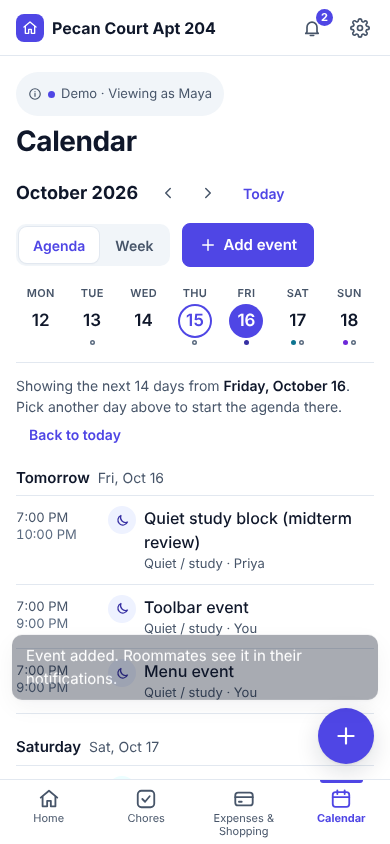
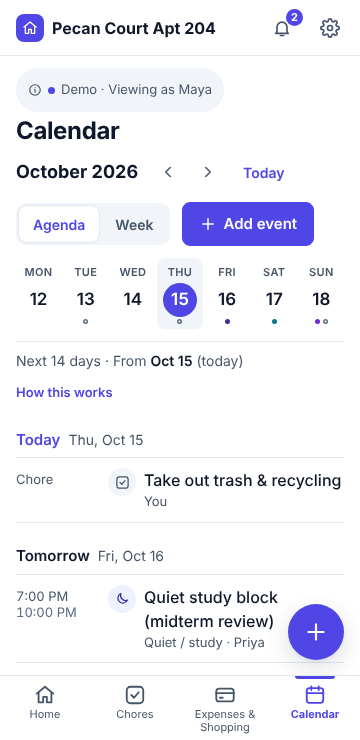
Final polish: tighter mobile Home, single Today heading, compact agenda note, one link per preview, simpler expense rows
Claude-Session: https://claude.ai/code/session_01D1j1XZUmCQM9XSxDUNXFjc

diff --git a/js/app.js b/js/app.js
@@ -115,7 +115,8 @@ function shopRowCompact(i) {
 
 // ---------- Home ----------
 const PREVIEW = 3; // practical preview length for the available layout (not a research-derived number)
-const moreLink = (n, shown, href, label) => (n > shown ? `<a class="more-link" href="${href}">${label} (${n})</a>` : '');
+const moreLink = (n, shown, href, label) => (n > shown ? `<a class="more-link" href="${href}">${label}</a>` : '');
+const moreText = (n, shown, what) => (n > shown ? `<p class="small muted" style="padding-top:8px">+ ${n - shown} more ${what}</p>` : '');
 function viewHome() {
   const s = store.state, t = today(), me = store.me();
   const hr = new Date().getHours();
@@ -131,13 +132,13 @@ function viewHome() {
   const todayBody = dueToday.length ? list(dueToday)
     : `<div class="empty"><strong>${ic('check', 16)} You’re all caught up today</strong>${upcomingAll.length ? `Next up: ${esc(upcomingAll[0].title)}, ${L.fmtDay(upcomingAll[0].due)}.` : 'Nothing is assigned to you right now.'}</div>`;
   const mainCol = `<div data-o="1">${overdueMine.length ? sec('over', 'Overdue', list(overdueMine), { count: overdueMine.length, danger: true, icon: 'alert' }) : ''}
-      ${sec('today', 'Today', todayBody + addRow('add-chore', 'Add chore'), { count: dueToday.length || null })}
+      ${sec('today', 'Your chores', todayBody + addRow('add-chore', 'Add chore'), { count: dueToday.length || null })}
       ${upcomingAll.length ? sec('up', 'Your upcoming chores', list(upcoming) + moreLink(upcomingAll.length, upcoming.length, '#/chores/mine', 'See all your chores'), { count: upcomingAll.length }) : ''}</div>
     ${others.length ? `<div data-o="2">${sec('others', 'Past due in the household', `<ul class="list">${others.slice(0, PREVIEW).map((o) => choreRow(o, { ctx: 'o', owner: true })).join('')}</ul>${moreLink(others.length, PREVIEW, '#/chores/all', 'See all chores')}`, { count: others.length })}</div>` : ''}
     <div data-o="6">${disclosure('activity', 'Recent activity', feed.length ? `<ul class="feed">${feed.map((a) => `<li><a href="${esc(a.link)}"><strong>${esc(who(a.actorId))}</strong> ${esc(L.displayCopy(a.verb))} ${esc(L.displayCopy(a.subject))}</a><time datetime="${a.ts}">${ago(a.ts)}</time></li>`).join('')}</ul>` : empty('No activity yet', 'Completed chores, purchases and changes show up here.'))}</div>`;
   const sideCol = `<div data-o="3" class="sec"><div class="panel-soft"><div class="sec-head" style="border:0;padding:0 0 8px"><h2>Your balance</h2><a href="#/money/expenses">Expenses</a></div>${balanceBlock()}</div></div>
-    <div data-o="4">${sec('ev', 'Household plans', events.length ? `<ul class="list">${events.slice(0, PREVIEW).map(eventRow).join('')}</ul>${moreLink(events.length, PREVIEW, '#/calendar', 'See calendar')}` : empty('Nothing planned', 'Add quiet time, guests or plans so everyone knows.', '<br><button type="button" class="btn sm" data-action="add-event">Add event</button>'), { count: events.length || null, right: '<a href="#/calendar">Calendar</a>' })}</div>
-    <div data-o="5">${sec('shop', 'Shopping list', needed.length ? `<ul class="list">${needed.slice(0, PREVIEW).map(shopRowCompact).join('')}</ul>${moreLink(needed.length, PREVIEW, '#/money/shopping', 'See the full list')}` : empty('Nothing needed', 'Add something when the apartment runs low.', '<br><button type="button" class="btn sm" data-action="add-item">Add item</button>'), { count: needed.length || null, right: '<a href="#/money/shopping">Open list</a>' })}</div>`;
+    <div data-o="4">${sec('ev', 'Household plans', events.length ? `<ul class="list">${events.slice(0, PREVIEW).map(eventRow).join('')}</ul>${moreText(events.length, PREVIEW, 'in the next 14 days')}` : empty('Nothing planned', 'Add quiet time, guests or plans so everyone knows.', '<br><button type="button" class="btn sm" data-action="add-event">Add event</button>'), { count: events.length || null, right: '<a href="#/calendar">Calendar</a>' })}</div>
+    <div data-o="5">${sec('shop', 'Shopping list', needed.length ? `<ul class="list">${needed.slice(0, PREVIEW).map(shopRowCompact).join('')}</ul>${moreText(needed.length, PREVIEW, 'needed')}` : empty('Nothing needed', 'Add something when the apartment runs low.', '<br><button type="button" class="btn sm" data-action="add-item">Add item</button>'), { count: needed.length || null, right: '<a href="#/money/shopping">Open list</a>' })}</div>`;
   return `<div class="page-head"><div><h1>Today</h1><p class="sub">${greet}, ${esc(name(me))} · ${L.fmtDay(t)}</p></div></div><div class="dash"><div class="dash-col">${mainCol}</div><div class="dash-col">${sideCol}</div></div>`;
 }
 
@@ -191,9 +192,10 @@ function viewMoney(tab) {
   const expRow = (e) => {
     const share = e.splits[me];
     const lines = e.participantIds.map((id) => `<li>${esc(name(id))}: ${money(e.splits[id])}${id === e.payerId ? ' (paid)' : ''}</li>`).join('');
+    const extra = `<li>Split ${e.participantIds.length} ${e.participantIds.length === 1 ? 'way' : 'ways'} equally</li>${e.shoppingItemId ? '<li>Recorded from a shopping list purchase</li>' : ''}`;
     return `<li class="row" id="exp-${e.id}"><div class="row-lead">${avatar(e.payerId)}</div><div class="row-main"><div class="row-title">${esc(e.description)}</div>
-      <div class="row-meta"><span>${esc(who(e.payerId))} paid</span><span>${L.fmtDay(e.date)}</span><span>Split ${e.participantIds.length} ${e.participantIds.length === 1 ? 'way' : 'ways'}</span>${e.shoppingItemId ? `<span>${ic('cart', 13)}From shopping list</span>` : ''}</div>
-      <details class="inline"><summary>Split details</summary><ul>${lines}</ul></details></div>
+      <div class="row-meta"><span>${esc(who(e.payerId))} paid · ${L.fmtDay(e.date)}</span></div>
+      <details class="inline" data-key="exp-${e.id}"${ui.open[`exp-${e.id}`] ? ' open' : ''}><summary>Details</summary><ul>${extra}${lines}</ul></details></div>
       <div class="row-side"><div class="amount">${money(e.amountCents)}<small>${share !== undefined ? `Your share ${money(share)}` : 'Not in split'}</small></div>${menu({ id: `e-${e.id}`, label: `More actions for ${e.description}`, items: [{ label: 'Edit expense', icon: 'edit', action: 'edit-expense', data: { id: e.id } }, '-', { label: 'Delete expense', icon: 'trash', action: 'delete-expense', data: { id: e.id }, danger: true }] })}</div></li>`;
   };
   const reRow = (r) => `<li class="row"><div class="row-lead">${ic('repeatSm', 18)}</div><div class="row-main"><div class="row-title">${esc(who(r.fromId))} repaid ${esc(name(r.toId))}</div><div class="row-meta"><span>${L.fmtDay(r.date)}</span><span>Paid outside RoomSync</span>${r.note ? `<span>${esc(r.note)}</span>` : ''}</div></div>
@@ -241,7 +243,7 @@ function viewCalendar() {
       ${evs.map((e) => `<button type="button" class="ag-row" data-action="view-event" data-id="${e.id}"><span class="ag-time">${rangeLabel(e, d)}</span><span class="ag-ic cat-${e.category}">${ic(CAT_ICON[e.category], 15)}</span><span><span class="ag-title">${esc(e.title)}</span><span class="ag-sub" style="display:block">${esc(L.CATEGORIES[e.category].label)} · ${esc(who(e.creatorId))}</span></span></button>`).join('')}
       ${occs.map((o) => `<button type="button" class="ag-row" data-action="view-chore" data-id="${o.id}"><span class="ag-time">Chore</span><span class="ag-ic chore">${ic('chores', 15)}</span><span><span class="ag-title${o.doneAt ? ' done' : ''}">${esc(o.title)}</span><span class="ag-sub" style="display:block">${esc(who(o.assigneeId))}${o.doneAt ? ' · Done' : ''}</span></span></button>`).join('')}
       ${!evs.length && !occs.length ? '<p class="small muted" style="padding:12px 0">Nothing planned</p>' : ''}</section>`).join('');
-    const anchor = `<p class="ag-anchor">Showing the next 14 days from <strong>${L.fmtFull(sel)}</strong>${sel === t ? ' (today)' : ''}. Pick another day above to start the agenda there.${sel !== t ? ' <button type="button" class="btn quiet sm" data-action="cal-today">Back to today</button>' : ''}</p>`;
+    const anchor = `<div class="ag-anchor"><span>Next 14 days · From <strong>${L.fmtMonthDay(sel)}</strong>${sel === t ? ' (today)' : ''}</span>${sel !== t ? '<button type="button" class="btn quiet sm" data-action="cal-today">Back to today</button>' : ''}<details class="inline" data-key="aghelp"${ui.open.aghelp ? ' open' : ''}><summary>How this works</summary><p>The agenda starts on the day you pick in the strip above and lists the next 14 days. Days with nothing planned are skipped.</p></details></div>`;
     body = `${strip}${anchor}${any ? rows : rows + empty('Nothing on the calendar', 'Add quiet time, guests, an away day or a household plan.', '<br><button type="button" class="btn sm" data-action="add-event">Add event</button>')}`;
   } else {
     body = `<div class="week">${days.map((d) => {

diff --git a/css/styles.css b/css/styles.css
@@ -396,3 +396,23 @@ dialog form { display: flex; flex-direction: column; width: 100%; max-height: ca
 .ag-anchor { font-size: .875rem; color: var(--color-text-secondary); padding: var(--space-3) 0 0; }
 .ag-anchor strong { color: var(--color-text); font-weight: 600; }
 .more-link { display: flex; align-items: center; min-height: 44px; font-size: .875rem; font-weight: 500; }
+
+/* ---------- Final polish ---------- */
+.ag-anchor { display: flex; flex-wrap: wrap; align-items: center; gap: 0 var(--space-3); padding: var(--space-2) 0 0; font-size: .875rem; color: var(--color-text-secondary); }
+.ag-anchor details.inline p { flex-basis: 100%; margin-top: 4px; font-size: .8125rem; max-width: 46ch; }
+.ag-anchor details.inline { flex: 1 1 auto; }
+.ag-anchor details.inline > summary { min-height: 44px; }
+details.inline > summary { min-height: 36px; }
+.amount { overflow-wrap: normal; }
+@media (max-width: 859px) {
+  main { padding-top: var(--space-3); }
+  .statusbar { margin-bottom: var(--space-1); }
+  .page-head { margin-bottom: var(--space-2); }
+  h1 { font-size: 1.5rem; }
+  .page-head .sub { margin-top: 0; }
+  .sec, .sec:first-of-type { margin-top: var(--space-4); }
+  .dash .sec:first-child, .dash [data-o="1"] > .sec:first-child { margin-top: var(--space-2); }
+  .sec-head { min-height: 32px; }
+  .row-meta { margin-top: 0; }
+}
+.cal-title { flex-wrap: wrap; }
